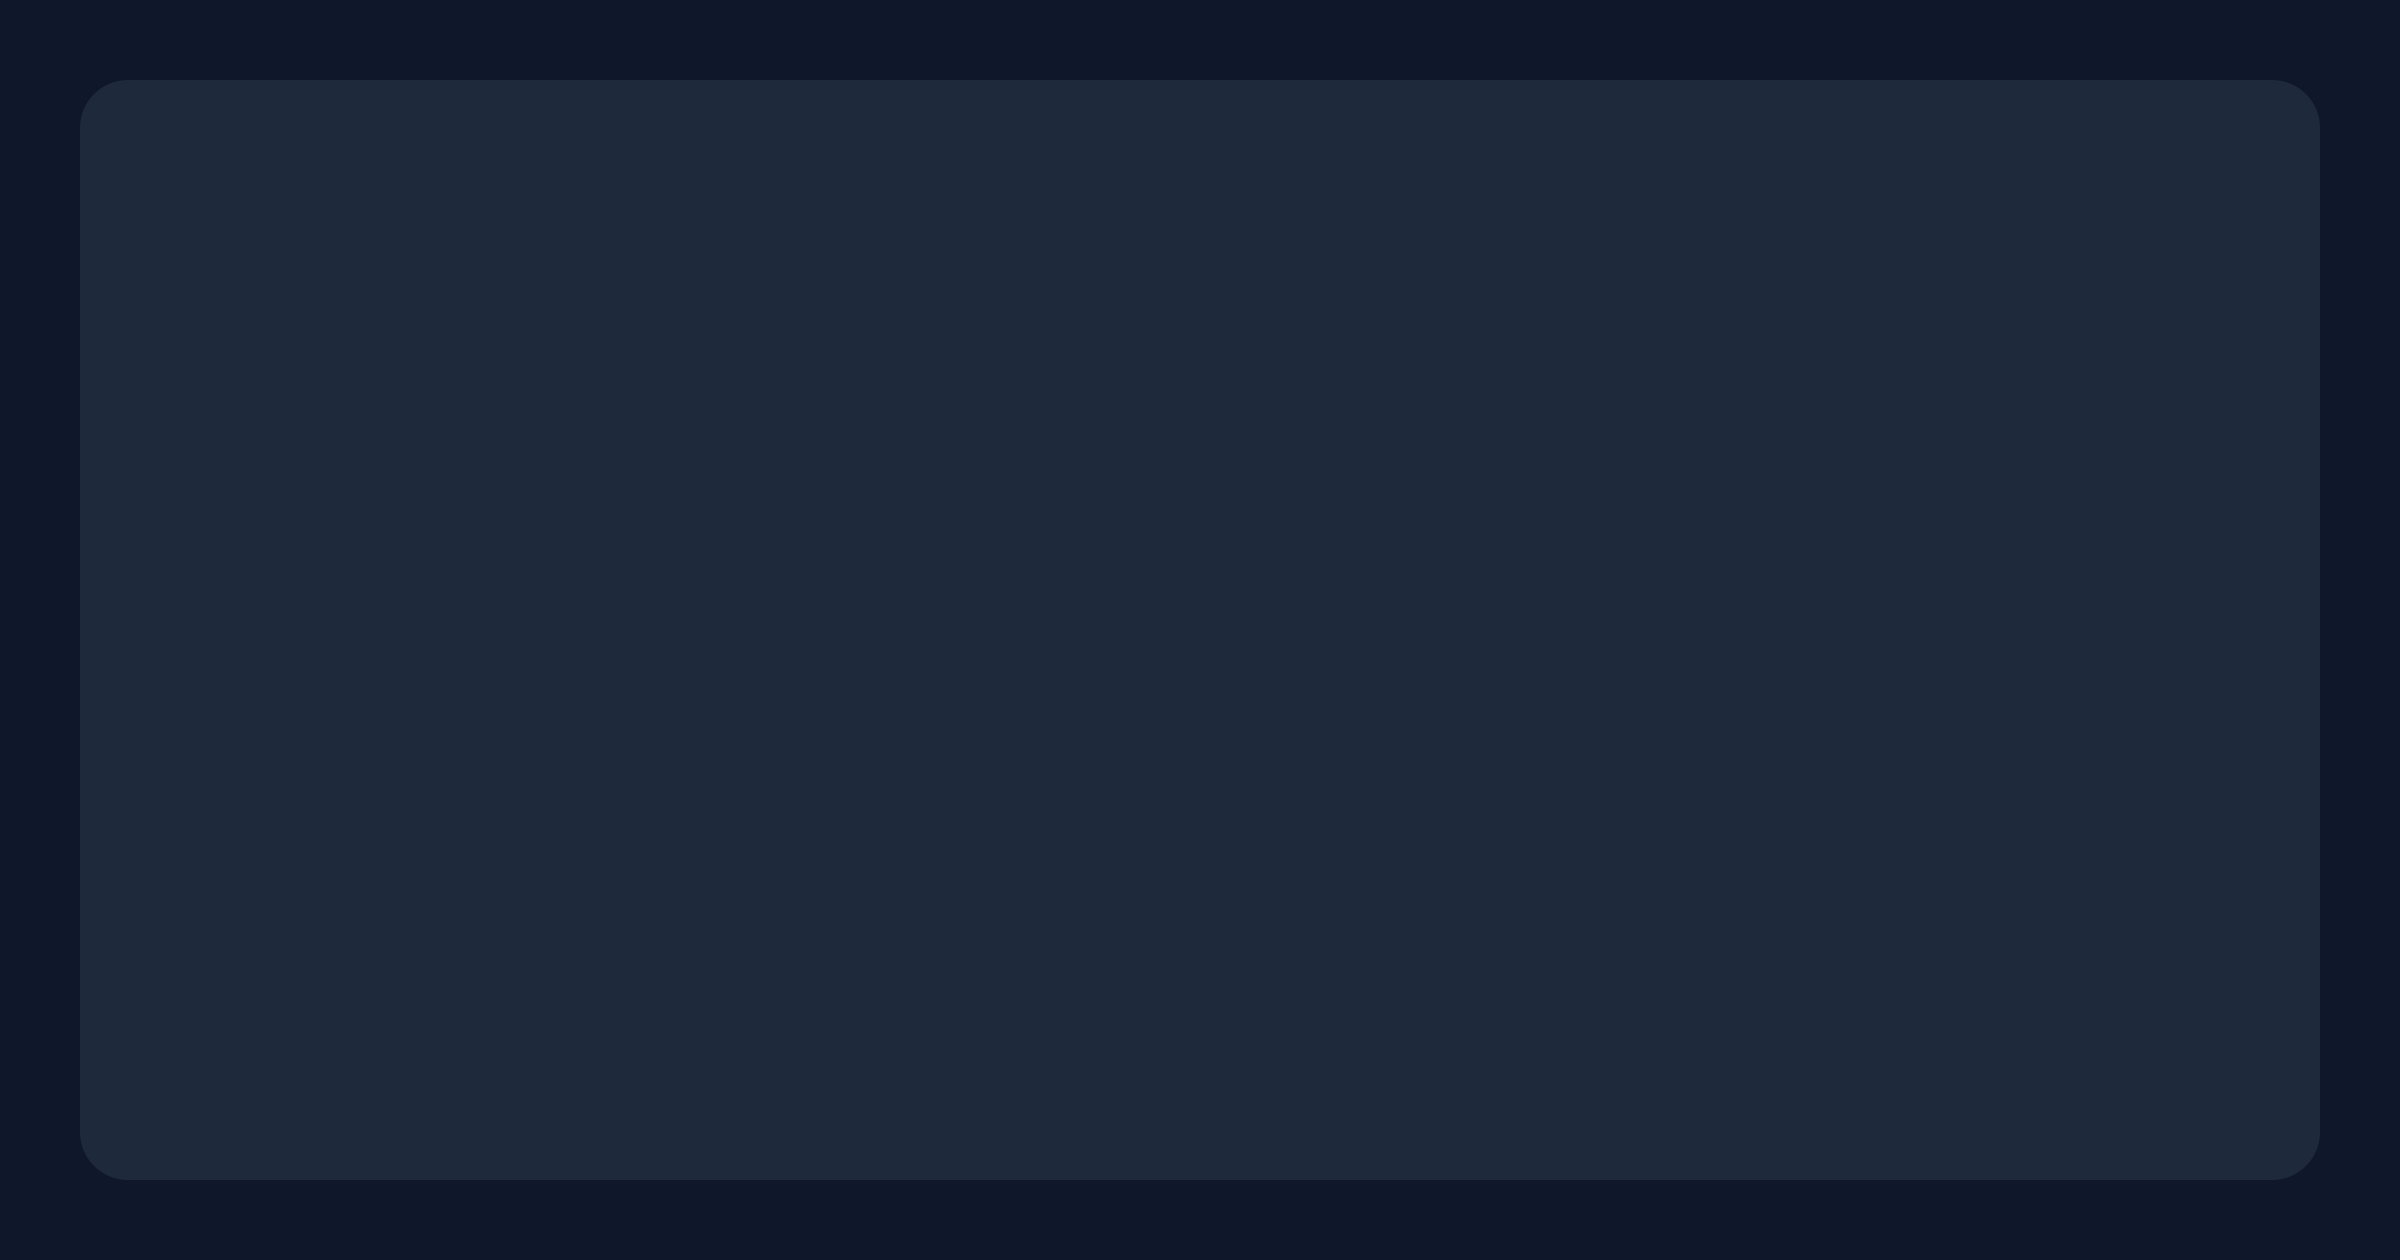
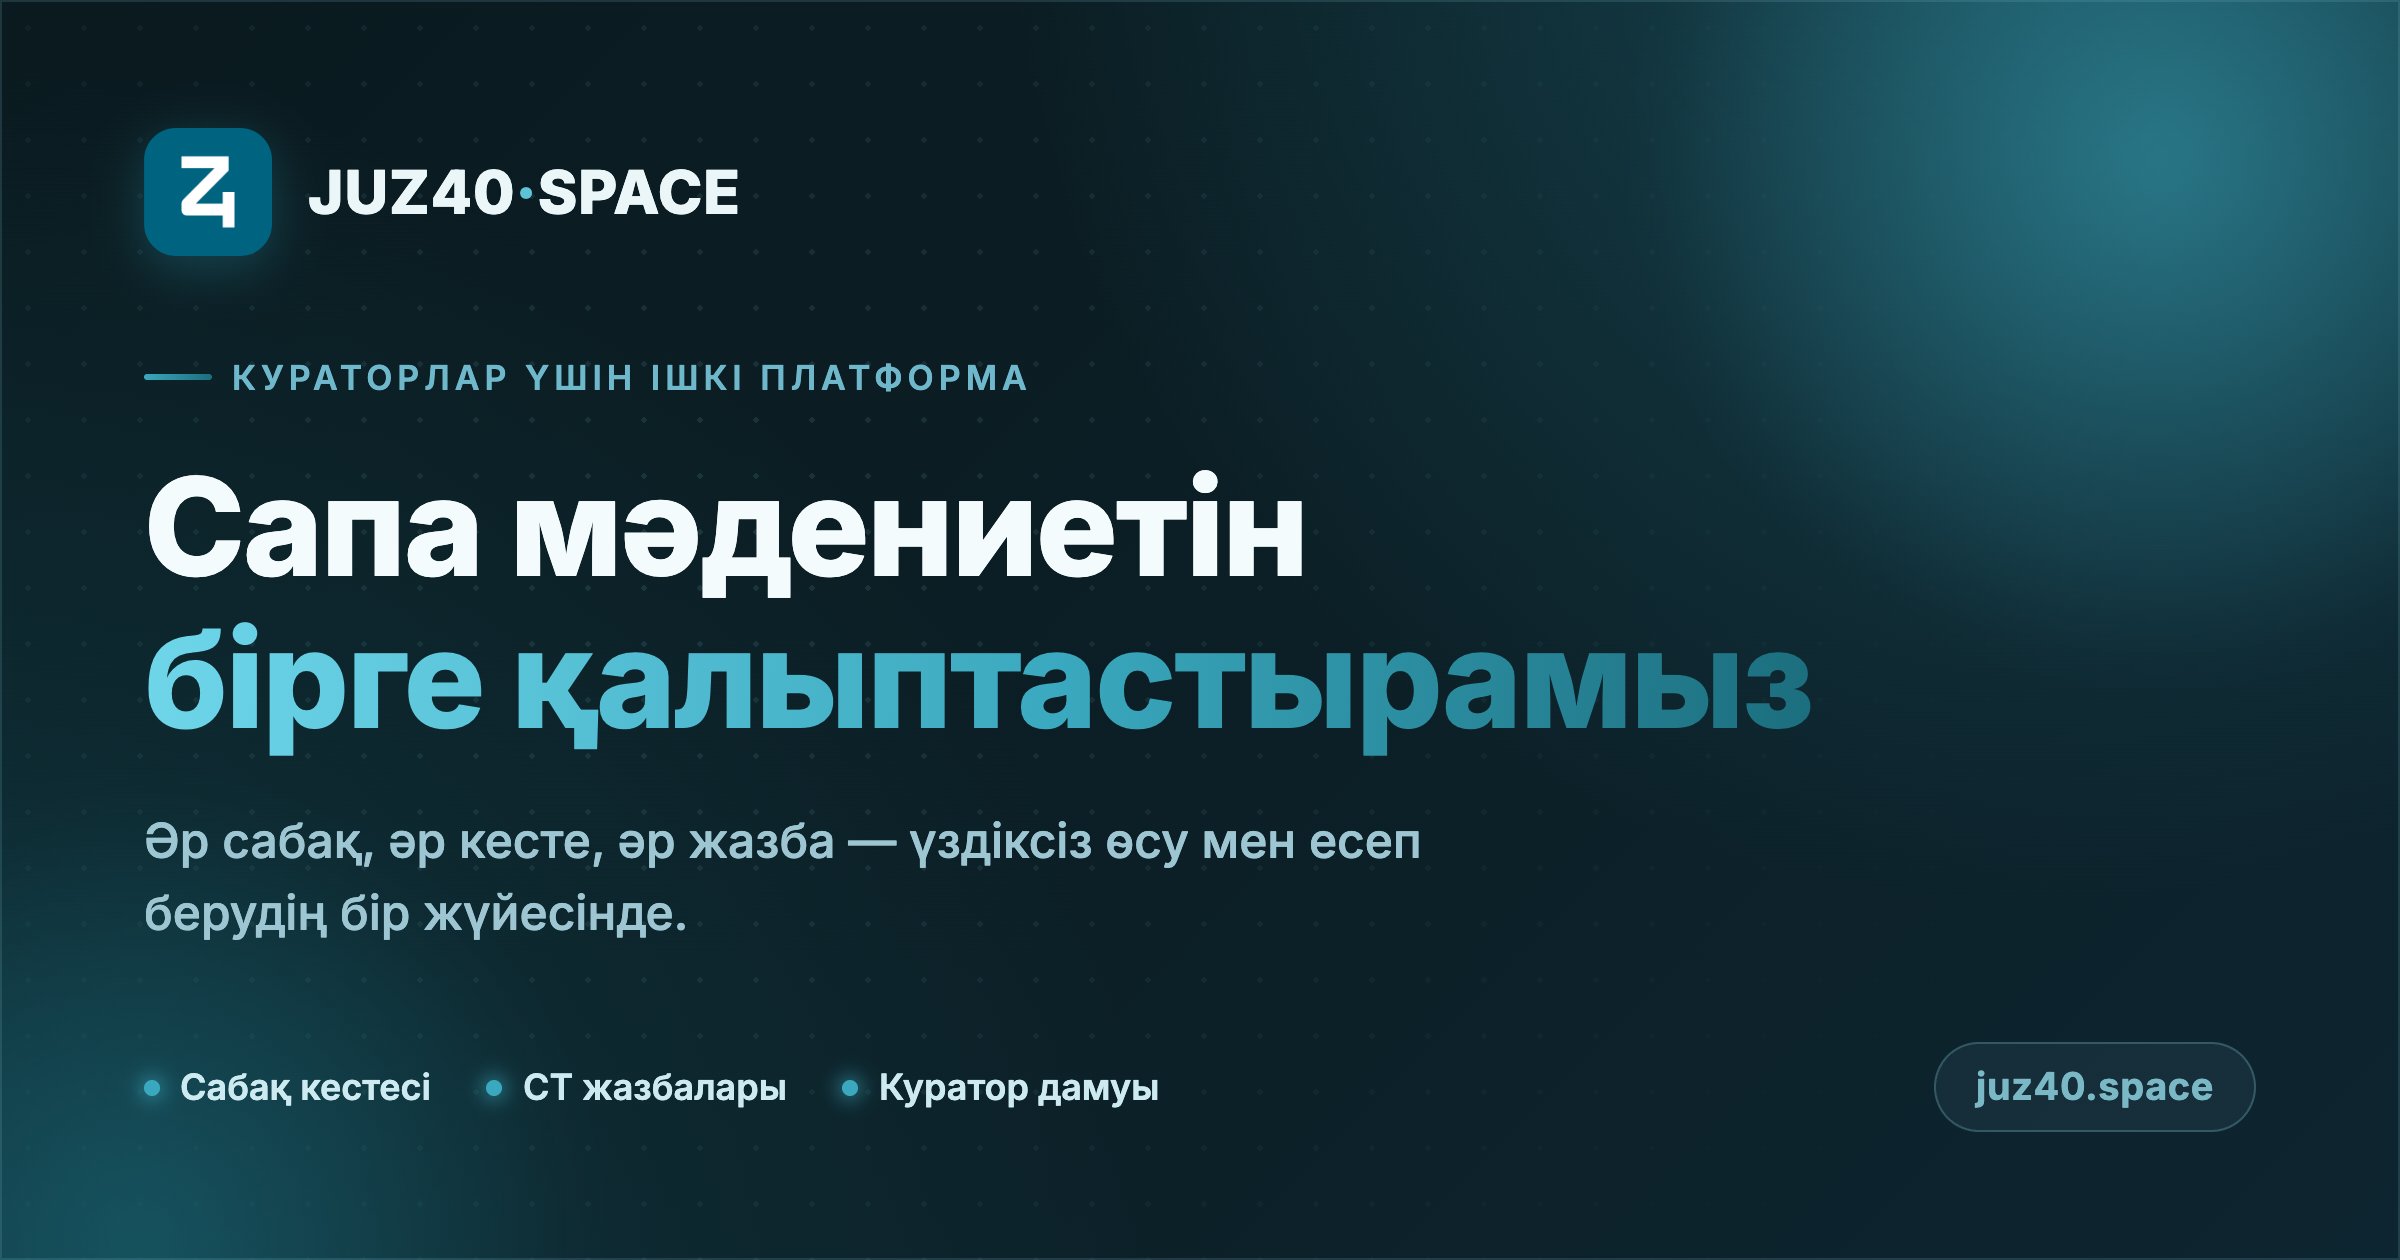
Fix broken link previews: point OG tags at juz40.space, redesign og.png
og:url and og:image still pointed at the old juznotify.vercel.app
domain, and that image URL now 404s — so Telegram (and any other
link-unfurler) couldn't fetch a preview image and showed nothing.
Pointed both at juz40.space, where og.png actually resolves.

The old og.png was also just an empty dark rectangle with no text or
logo. Replaced it with a designed version using the app's own brand
colors/logo and a "quality culture" tagline instead of the outdated
WhatsApp-broadcast description (that feature is currently disabled per
the README). Title/description updated to match.

diff --git a/frontend/index.html b/frontend/index.html
@@ -5,13 +5,13 @@
     <link rel="icon" type="image/png" href="/favicon.png" />
     <link rel="apple-touch-icon" href="/favicon.png" />
     <meta name="viewport" content="width=device-width, initial-scale=1.0" />
-    <title>JUZ40</title>
-    <meta name="description" content="JUZ40 кураторларының WhatsApp рассылка платформасы" />
-    <meta property="og:title" content="JUZNOTIFY" />
-    <meta property="og:description" content="WhatsApp рассылканы автоматтандыру — JUZ40 кураторлары үшін" />
-    <meta property="og:url" content="https://juznotify.vercel.app" />
+    <title>JUZ40 Space — Сапа мәдениетін бірге қалыптастырамыз</title>
+    <meta name="description" content="Кураторлар үшін ішкі платформа: сабақ кестесі, СТ жазбалары, куратор дамуы — бәрі бір жүйеде." />
+    <meta property="og:title" content="JUZ40 Space — Сапа мәдениетін бірге қалыптастырамыз" />
+    <meta property="og:description" content="Кураторлар үшін ішкі платформа: сабақ кестесі, СТ жазбалары, куратор дамуы — бәрі бір жүйеде." />
+    <meta property="og:url" content="https://juz40.space" />
     <meta property="og:type" content="website" />
-    <meta property="og:image" content="https://juznotify.vercel.app/og.png" />
+    <meta property="og:image" content="https://juz40.space/og.png" />
     <meta property="og:image:width" content="1200" />
     <meta property="og:image:height" content="630" />
   </head>
